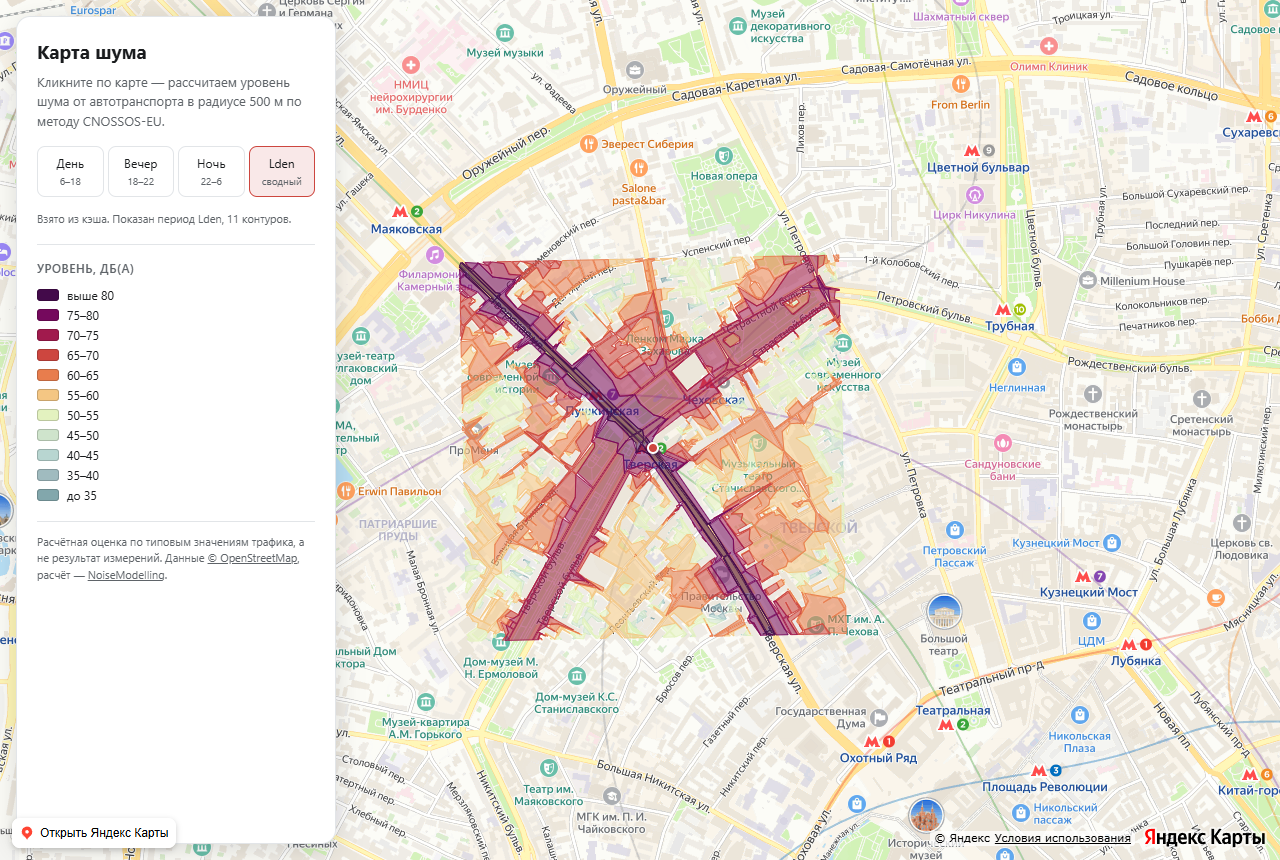
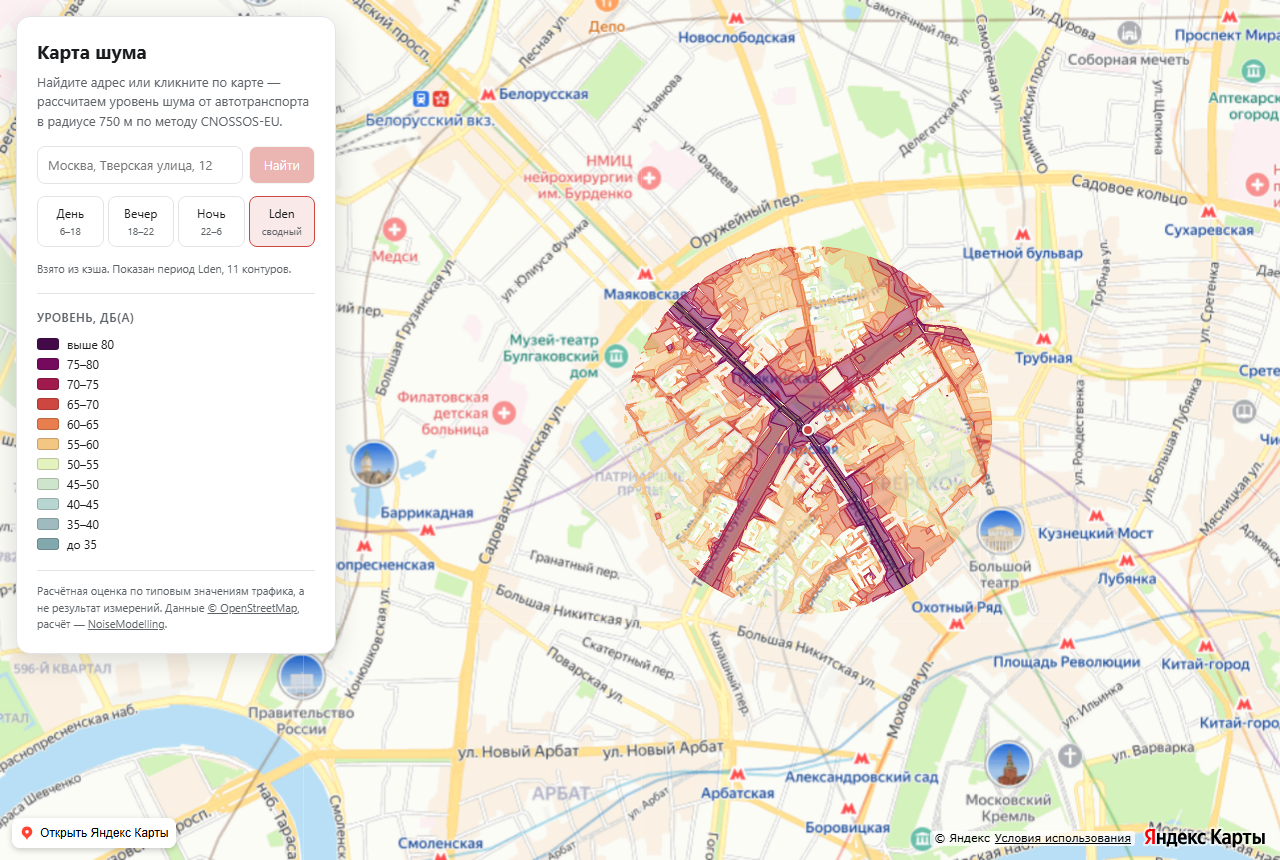
Радиус показа 750 м и круглая зона вместо квадратной
Рабочая точка JOB_PARAMS: радиус 500 -> 750 м, выгрузка источников
соответственно до 1100 м.

Круг нельзя задать сеткой приёмников: Delaunay_Grid берёт от переданного
fence только его envelope (setMainEnvelope в исходнике блока), поэтому
"круг 500 м", о котором говорил README, кругом никогда не был. Диск
вырезается в конце пайплайна — пересечением склеенных изофон с буфером
центра в метрической проекции, после упрощения, чтобы кромка осталась
ровной. Пустые после обрезки диапазоны удаляются, ST_Buffer(...,0) снимает
риск получить GeometryCollection, который фронтенд не умеет.

Плата: 21% приёмников считаются за пределами показа. Убирать их вместе с
треугольниками перед распространением дешевле, но Create_Isosurface
потребляет TRIANGLES целиком — риск ради одной пятой.

Масштаб карты при открытии 15 -> 14.4: log2(1.5) = 0.58, то есть выросшая
область попадает в кадр в прежнем кадрировании.

Замеры на новом радиусе (те же три точки, с рельефом):
Хамовники 178 -> 354 с, Тверская 365 -> 829 с, Садовое 582 -> 1609 с;
пик JVM 1836 -> 2203 МБ; выхлоп 1.6-2.2 МБ (388-518 КБ в gzip).
Обрезка по кругу стоит 4 с на фоне 789 с расчёта. Проверено, что геометрия
действительно круглая: максимальный радиус 747-749 м во всех 36 секторах.

Обновлены скриншот в README, тексты про радиус и время, требования к памяти
(3 ГБ вместо 2.5, mem_limit 4g) и прогрет кэш демо-точек.

diff --git a/web/src/App.tsx b/web/src/App.tsx
@@ -20,6 +20,15 @@ import {
 const DEFAULT_CENTER: [number, number] = [37.6173, 55.7558];
 
 /**
+ * Fractional on purpose. The map used to open at 15, which framed the 500 m
+ * disc; the radius then grew by half, and log2(1.5) is 0.58, so this is the same
+ * framing for the larger area rather than a round number that would either crop
+ * the result or leave it swimming in empty basemap. An address search adds a
+ * step back — there the street matters more than the whole disc.
+ */
+const DEFAULT_ZOOM = 14.4;
+
+/**
  * A result is worth linking to, so the picked point lives in the URL. It also
  * makes the app reproducible from the outside — screenshots and bug reports can
  * name an exact location instead of "click roughly here".
@@ -155,7 +164,7 @@ export default function App() {
   const [deepLink] = useState(readLocationFromUrl);
   const [location, setLocation] = useState(() => ({
     center: deepLink ? ([deepLink.lon, deepLink.lat] as [number, number]) : DEFAULT_CENTER,
-    zoom: 15,
+    zoom: DEFAULT_ZOOM,
   }));
 
   useEffect(() => {
@@ -282,7 +291,7 @@ export default function App() {
     (place: Place) => {
       setPlaces(null);
       setQuery(place.name);
-      setLocation({ center: [place.lon, place.lat], zoom: 16 });
+      setLocation({ center: [place.lon, place.lat], zoom: DEFAULT_ZOOM + 1 });
       void handlePick(place.lat, place.lon, 'search');
     },
     [handlePick],
@@ -356,7 +365,7 @@ export default function App() {
         <h1>Карта шума</h1>
         <p className="lead">
           Найдите адрес или кликните по карте — рассчитаем уровень шума от автотранспорта
-          в радиусе 500 м по методу CNOSSOS-EU.
+          в радиусе 750 м по методу CNOSSOS-EU.
         </p>
 
         <form className="search" onSubmit={handleSearch}>
@@ -441,7 +450,7 @@ export default function App() {
               </p>
             )}
             <p className="note">
-              Первый расчёт для нового места занимает 3–10 минут: в плотной застройке
+              Первый расчёт для нового места занимает 6–27 минут: в плотной застройке
               дольше, на окраинах быстрее. Повторный клик рядом отдаётся из кэша мгновенно.
             </p>
           </div>

diff --git a/server/src/config.ts b/server/src/config.ts
@@ -107,11 +107,15 @@ export const RATE_LIMITS = {
 export type LimitName = keyof typeof RATE_LIMITS;
 
 /**
- * Operating point chosen in benchmarking: ~70 s in the densest part of Moscow.
- * See README for the accuracy/speed trade-offs behind each value.
+ * Operating point chosen in benchmarking. See README for the accuracy/speed
+ * trade-off behind each value; the current cost is ~830 s cold on Tverskaya,
+ * of which ~790 s is propagation.
  */
 export const JOB_PARAMS = {
-  radius: 500,
+  // Displayed disc. Receivers are still laid out over the enclosing square —
+  // Delaunay_Grid only honours the envelope of its fence — so the shown area is
+  // cut to this radius at the end of the pipeline.
+  radius: 750,
   maxSrcDist: 350,
   maxArea: 5000,
   reflOrder: 0,

diff --git a/CLAUDE.md b/CLAUDE.md
@@ -35,7 +35,7 @@ NM_TABLES=LW_RAILWAY,ROADS .tools/nm/NoiseModelling_6.0.0/bin/ScriptRunner \
 
 ## Computation is expensive, and that shapes everything
 
-A cold job takes **3–10 minutes across every core and up to 1.8 GB**. Therefore:
+A cold job takes **6–27 minutes across every core and up to 2.2 GB**. Therefore:
 
 - **`POST /api/noise` is not a probe — it starts work.** There is currently no way
   to ask whether a location has been computed without computing it. It is easy to
@@ -46,6 +46,8 @@ A cold job takes **3–10 minutes across every core and up to 1.8 GB**. Therefor
   limit does not apply to loopback, which is why local scripts do not trip it.
 - Do not start jobs speculatively. For checks use the prewarmed points: Tverskaya
   `55.7649,37.6055`, Sadovoye `55.7708,37.6335`, Khamovniki `55.7315,37.5806`.
+  They are warm for the current `JOB_PARAMS`; changing any of those parameters
+  empties the cache in effect and the three cost half an hour to warm again.
 - Run long jobs in the background and poll no more often than every few tens of
   seconds.
 
@@ -93,6 +95,12 @@ The full annotated list is in the README under "Грабли". The ones that bit
   `MissingMethodException`.
 - Use `Delaunay_Grid`, not `Regular_Grid`: `Create_Isosurface` consumes the
   `TRIANGLES` table that only Delaunay produces.
+- **`Delaunay_Grid` keeps only the *envelope* of its `fence`** — see
+  `setMainEnvelope` in `scripts/Receivers/Delaunay_Grid.groovy` inside the
+  distribution. Passing a circle changes nothing; receivers always fill the
+  enclosing rectangle. The round display area is cut at the end of the pipeline,
+  by intersecting the dissolved isophones with a disc, which is why roughly a
+  fifth of the receivers are computed and then thrown away.
 - **Diffraction is off by default.** Without it a courtyard scores the same as the
   street, and the map degrades into "distance from the nearest road".
 - `confMaxSrcDist` defaults to 150 m — distant main roads silently drop out.
